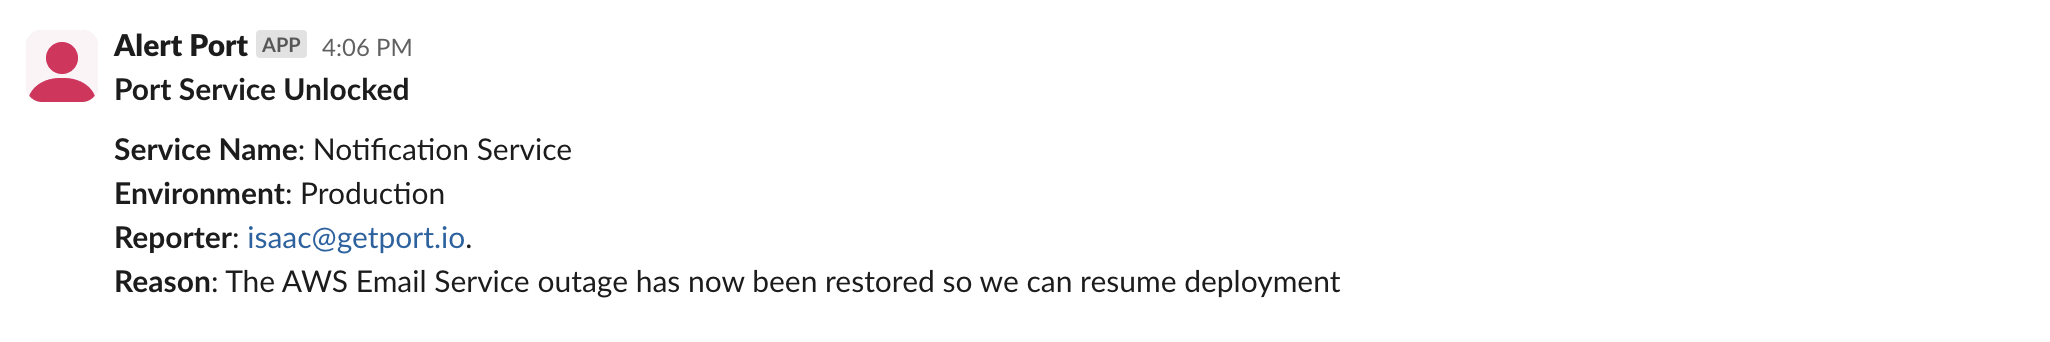
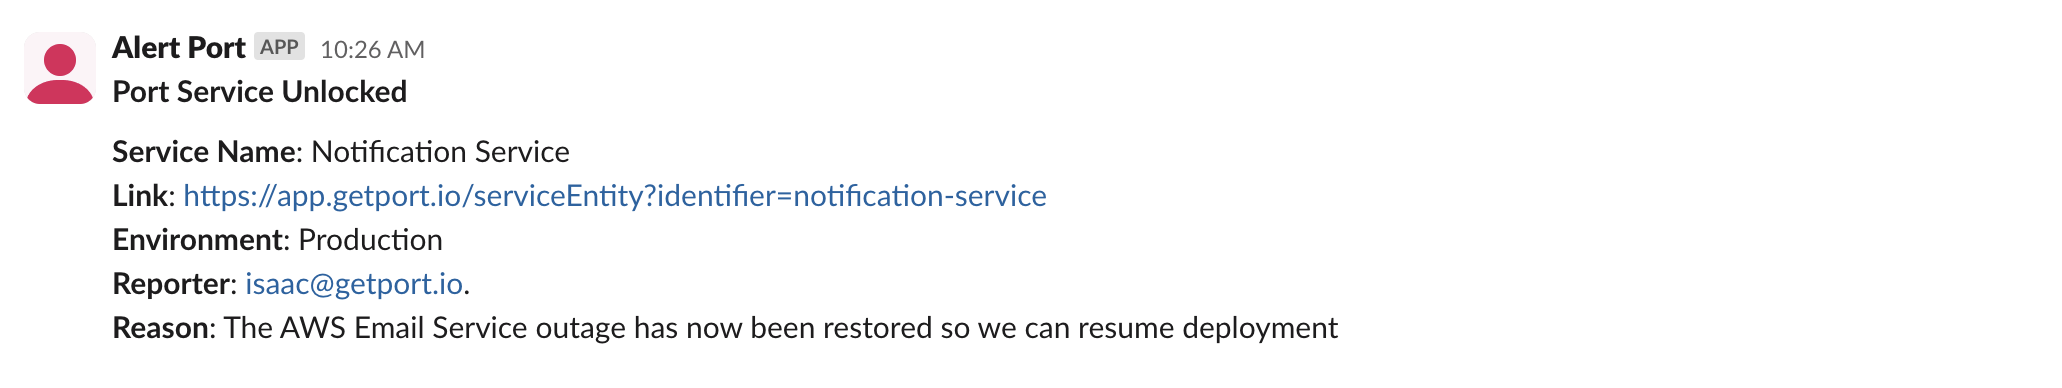
add links to service lock

Changed region(s): [[0.0312, 0.3509, 0.5307, 0.6433], [0.0312, 0.6725, 0.6556, 0.8772], [0.0, 0.0877, 0.2185, 0.2924]]

diff --git a/docs/create-self-service-experiences/setup-backend/github-workflow/examples/lock-and-unlock-service-in-port.md b/docs/create-self-service-experiences/setup-backend/github-workflow/examples/lock-and-unlock-service-in-port.md
@@ -164,7 +164,6 @@ Follow these steps to get started:
 
 
 ```json showLineNumbers
-[
 {
   "identifier": "lock_service",
   "title": "Lock Service",
@@ -213,7 +212,6 @@ Follow these steps to get started:
   "description": "Lock service in Port",
   "requiredApproval": false
 }
-]
 ```
 
 </details>
@@ -228,7 +226,6 @@ Follow these steps to get started:
 
 
 ```json showLineNumbers
-[
 {
   "identifier": "unlock_service",
   "title": "Unlock Service",
@@ -277,7 +274,6 @@ Follow these steps to get started:
   "description": "Unlock service in Port",
   "requiredApproval": false
 }
-]
 ```
 
 </details>
@@ -366,7 +362,7 @@ jobs:
         uses: slackapi/slack-github-action@v1.25.0
         with:
           channel-id: '${{ secrets.SLACK_CHANNEL_ID }}'
-          slack-message: "*Port Service Locked*\n\n*Service Name*: ${{ fromJson(github.event.inputs.port_payload).payload.entity.title }}\n*Environment*: ${{ github.event.inputs.environment }}\n*Reporter*: ${{ fromJson(github.event.inputs.port_payload).trigger.by.user.email }}\n*Reason*: ${{ github.event.inputs.reason }}"
+          slack-message: "*Port Service Locked*\n\n*Service Name*: ${{ fromJson(github.event.inputs.port_payload).payload.entity.title }}\n*Link*: https://app.getport.io/${{ fromJson(github.event.inputs.port_payload).context.blueprint }}Entity?identifier=${{ fromJson(github.event.inputs.port_payload).context.entity }}\n*Environment*: ${{ github.event.inputs.environment }}\n*Reporter*: ${{ fromJson(github.event.inputs.port_payload).trigger.by.user.email }}\n*Reason*: ${{ github.event.inputs.reason }}"
         env:
           SLACK_BOT_TOKEN: ${{ secrets.SLACK_BOT_TOKEN }}
 
@@ -478,7 +474,7 @@ jobs:
         uses: slackapi/slack-github-action@v1.25.0
         with:
           channel-id: '${{ secrets.SLACK_CHANNEL_ID }}'
-          slack-message: "*Port Service Unlocked*\n\n*Service Name*: ${{ fromJson(github.event.inputs.port_payload).payload.entity.title }}\n*Environment*: ${{ github.event.inputs.environment }}\n*Reporter*: ${{ fromJson(github.event.inputs.port_payload).trigger.by.user.email }}\n*Reason*: ${{ github.event.inputs.reason }}"
+          slack-message: "*Port Service Unlocked*\n\n*Service Name*: ${{ fromJson(github.event.inputs.port_payload).payload.entity.title }}\n*Link*: https://app.getport.io/${{ fromJson(github.event.inputs.port_payload).context.blueprint }}Entity?identifier=${{ fromJson(github.event.inputs.port_payload).context.entity }}\n*Environment*: ${{ github.event.inputs.environment }}\n*Reporter*: ${{ fromJson(github.event.inputs.port_payload).trigger.by.user.email }}\n*Reason*: ${{ github.event.inputs.reason }}"
         env:
           SLACK_BOT_TOKEN: ${{ secrets.SLACK_BOT_TOKEN }}
 
@@ -510,13 +506,10 @@ jobs:
 
 5. Trigger the actions from the [self-service](https://app.getport.io/self-serve) page of your Port application.
 
-:::tip Practical usage
-
-Service locking and unlocking can be used to control deployment via Github actions. This means when a service is locked, deployment checks on that service will fail. Follow [Port's self-service mini guide to control deployment using service lock](/guides-and-tutorials/service-lock-github-workflow.md) to add this functionality to your workflow.
-
-:::
-
 Below is the result of a successful service lock and unlock alert sent to a Slack channel:
 
 <img src="/img/self-service-actions/lockServiceSlackAlert.png" border="1px" />
 <img src="/img/self-service-actions/unlockServiceSlackAlert.png" border="1px" />
+
+## More relevant guides and examples
+- [Mini guide on controlling deployment using service lock](/guides-and-tutorials/service-lock-github-workflow.md)

diff --git a/docs/guides-and-tutorials/service-lock-github-workflow.md b/docs/guides-and-tutorials/service-lock-github-workflow.md
@@ -227,3 +227,8 @@ When you will look at the step that failed, you will see that the failure is due
 If you set the value of the `locked_in_prod` field to `false`, the workflow will perform the deployment without any issue:
 
 <img src="/img/guides/serviceInProdNotLocked.png" border="1px" />
+
+
+## More relevant guides and examples
+
+- [Port's self-service action to lock and unlock a service](/create-self-service-experiences/setup-backend/github-workflow/examples/lock-and-unlock-service-in-port)
